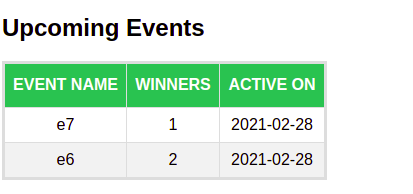
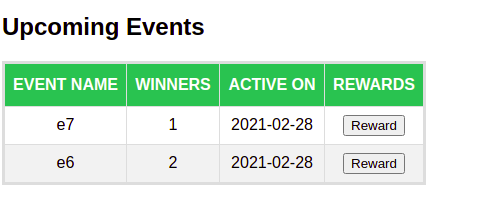
Readme fix

diff --git a/ReactLuckyDraw/src/components/event/ShowWinner.js b/ReactLuckyDraw/src/components/event/ShowWinner.js
@@ -2,18 +2,36 @@ import React from 'react';
 
 function ShowWinner(props) {
     const prevData = props.data[0];
-    const title = "Winners List for event " + prevData.event_name;
-    const tHead = ["User Email", "Reward Won"];
     const data = prevData.event_rewards;
-    const tableData = data.map((row, index) => {
-        return(
-            <tr key={index}>
-                <td>{row[0]}</td>
-                <td>{row[1]}</td>
-            </tr>
-        )
-    })
+    var title = "Winners List for event " + prevData.event_name;
+    var tHead;
+    var tableData;
 
+    if(data[0].size === 1){
+        title = "Winners List for event: " + prevData.event_name;
+        tHead = ["User Email", "Reward Won"];
+        tableData = data.map((row, index) => {
+            return(
+                <tr key={index}>
+                    <td>{row[0]}</td>
+                    <td>{row[1]}</td>
+                </tr>
+            )
+        })
+    
+    }
+    else{
+        title = "Reward List for event: " + prevData.event_name;
+        tHead = ["Reward List"];
+        tableData = data.map((row, index) => {
+            return(
+                <tr key={index}>
+                    <td>{row[0]}</td>
+                </tr>
+            )
+        })
+    }
+    
     const tableHead = tHead.map((index) => {
         return(
             <th key={index}>

diff --git a/ReactLuckyDraw/src/components/event/ShowEvent.js b/ReactLuckyDraw/src/components/event/ShowEvent.js
@@ -57,7 +57,7 @@ function ShowEvent(props) {
     }
 
     if(title === "Active Events"){
-        tHead = ["Event Name", "Winners", "Time Left (days)", "Participate"]
+        tHead = ["Event Name", "Winners", "Time Left (days)", "Participate", "Rewards"]
         tableData = data.map((row, index) => {
             return(
                 <tr key={index}>
@@ -67,19 +67,25 @@ function ShowEvent(props) {
                     <td>
                         <button value={row.id} onClick={handleParticipate}>Participate</button>
                     </td>
+                    <td>
+                        <button value={row.id} onClick={handleReward}>Reward</button>
+                    </td>
                 </tr>
             )
         })
     }
 
     if(title === "Upcoming Events"){
-        tHead = ["Event Name", "Winners", "Active On"]
+        tHead = ["Event Name", "Winners", "Active On", "Rewards"]
         tableData = data.map((row, index) => {
             return(
                 <tr key={index}>
                     <td>{row.name}</td>
                     <td>{row.winner}</td>
                     <td>{row.startDate}</td>
+                    <td>
+                        <button value={row.id} onClick={handleReward}>Reward</button>
+                    </td>
                 </tr>
             )
         })

diff --git a/app/controllers/rewards_controller.rb b/app/controllers/rewards_controller.rb
@@ -22,6 +22,8 @@ class RewardsController < ApplicationController
             if r.user_id?
                 user = User.find_by(id: r.user_id)
                 event_rewards << [user.email, r.reward_name]
+            else
+                event_rewards << [r.reward_name]
             end
         end
 

diff --git a/app/workers/reward_worker.rb b/app/workers/reward_worker.rb
@@ -5,7 +5,7 @@ class RewardWorker
   def perform
 
     puts("**********************")
-    puts("Reward Worker Invoked")
+    puts("RewardWorker Invoked Success")
     puts("**********************")
 
 

diff --git a/README.md b/README.md
@@ -1,6 +1,6 @@
 # Lucky Draw Gaming Service
 
-This README will document the partial fulfilment of the Grofers assignment. We explains each task briefly and how we accomplish them. We also provide a detailed view of all the services, tools, databases, programming languages used for the same.
+In this readme, we explains each task briefly and how we accomplish them. We also provide a detailed view of all the services, tools, databases, programming languages used for the same.
 
 * Ruby version
     * ruby 2.4.10p364 (2020-03-31 revision 67879) [x86_64-linux]
@@ -17,8 +17,8 @@ This README will document the partial fulfilment of the Grofers assignment. We e
     * Name: postgresql
 
 * Tools
-    * pgadmin: UI to view database tables
-    * Postman: To make API calls to server
+    * pgadmin: User interface to view database tables entries
+    * Postman: To test API calls on the localhost server
 
 * Frontend
     * React
@@ -32,8 +32,6 @@ Design & Implement a service which allows users to get Lucky Draw Raffle tickets
 # Functional Requirements
 
 # 1. API which allows users to get the raffle tickets
-
-* If the user dosen't have generated any raffle ticket for the event, then she call an API 'generate_raffle_ticket', which issue them a raffle ticket from available tickets.
 
 * User place order and Buy 
     * For eg. 5 tickets
@@ -57,6 +55,12 @@ Design & Implement a service which allows users to get Lucky Draw Raffle tickets
 ![alt text](https://github.com/Sanjit-Prasad/LuckyDraw/blob/main/images/2.2.png?raw=true)
 
 
+* List of rewards for any Active event
+
+![alt text](https://github.com/Sanjit-Prasad/LuckyDraw/blob/main/images/2.3.png?raw=true)
+
+
+
 # 3. Design an API which allows users to participate in the game. Once a user has participated with a raffle ticket, she shouldn’t be able to participate again in the same event.
 
 * First we check if user has any ticket left in their account, if not we won't allow participation
@@ -65,12 +69,12 @@ Design & Implement a service which allows users to get Lucky Draw Raffle tickets
 
 * Then user can participate by click on "Participate" button for any active events
 * A user can participate in multiple active events
-* On successful participation we decrease ticket count by 1
 
 ![alt text](https://github.com/Sanjit-Prasad/LuckyDraw/blob/main/images/3.2.png?raw=true)
 
 
-* We also check if user has already participated in same event
+* On successful participation we decrease ticket count by 1
+* We also check if user has already participated in the event
 
 ![alt text](https://github.com/Sanjit-Prasad/LuckyDraw/blob/main/images/3.3.png?raw=true)
 
@@ -88,36 +92,42 @@ Design & Implement a service which allows users to get Lucky Draw Raffle tickets
 
 # 5. Compute the winner for the event and announce the winner.
 
-* We have made a CronJob which will run everyday at 8:00 AM. The task of the job is to run the "RewardWorker" to compute the winner for all the active events that are finished on current date.
+* We have made a CronJob which will run everyday at 8:00 AM.
+* The task of the sidekiq-scheduler job is to run the "RewardWorker" which then computes the winner for all the events that are finished on current date.
+
+* Sidekiq Job Scheduler
 
 ![alt text](https://github.com/Sanjit-Prasad/LuckyDraw/blob/main/images/5.1.png?raw=true)
 
 
+* RewardWorker
+
 ![alt text](https://github.com/Sanjit-Prasad/LuckyDraw/blob/main/images/5.2.png?raw=true)
+
 
 # Non-Functional Requirements
 
 * Please share the github repository when you start working on the project.
-    * Done
+    * Completed
 
 * Code should be modular and readable.
-    * Done (improvements possible)
+    * Completed (improvements possible)
 
 * Make your ReadMe as descriptive as possible.
-    * Done
+    * Completed
 
 * Code should be properly documented.
-    * Done
+    * Completed
 
 * You can use Language and Database of your choice
     * Language: Ruby, React
     * Database: postgresql
 
 * Building UI on top of this is completely optional. Brownie points if you build the entire app.
-    * Done (improvements possible)
+    * Completed (improvements possible)
 
 # Extra Work
 
-* Also made a complete user authentication system and handling cookies using session store.
+* Made a complete user authentication system and handling cookies using session store.
 
-* Also made front-end for "New Event" and "Reward" addition
+* Developed the front-end for "New Event" and "Reward" addition to database at ease.
